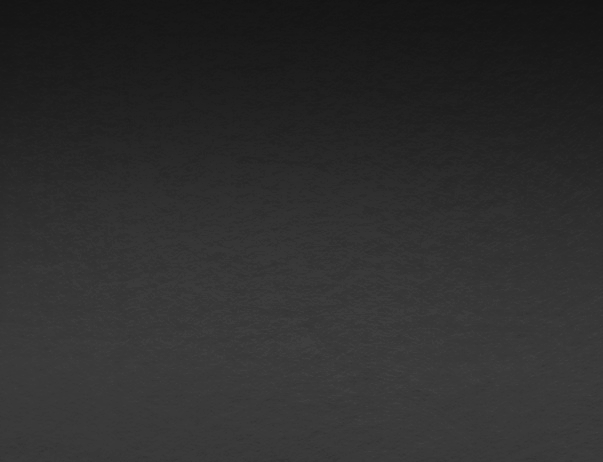
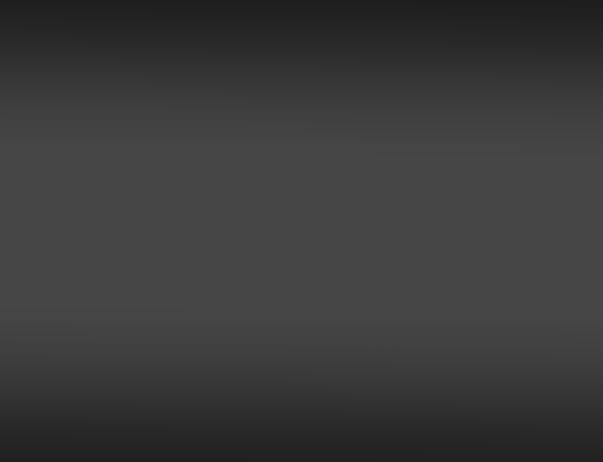
changes

diff --git a/css.css b/css.css
@@ -1,45 +1,45 @@
 
 
+/*//////////////// Shapes/containers ////////////*/
 
-/* Shapes */
+html {
+	scroll-behavior: smooth;
+}
 
 body {
 	background-color: #484747;
 	font-family: 'Chelsea Market', sans-serif;
-	background-image: url(images/background.png);
 	background-repeat: no-repeat;
-	background-size: cover;
+	background-size: 100% 100%;
+	z-index: 2;
 }
 
-
+a {text-decoration:none;}
 
 .bg_square {
 	display: flex;
-	margin: 0px auto;
+	margin: 0 auto;
 	width: 100%;
 	max-width: 1500px;
 	background-color: black;
-	min-height: 900px;
-	align-items: flex-start;
 	}
 
-.side_rect
-{
+.side_rect {
 	display: flex;
 	background-color: black;
-	width: 100%;
-	min-height: 900px;
-	max-width: 450px;
+	min-width: 350px;
+	width: 30%;
 	flex-direction: column;
+
 	
 }
+
 
 .bio_footer_container {
 	background-color: white;
 	display: flex;
 	flex-direction: column;
-	min-height: 900px;
-	max-width: 1200px;;
+	max-width: 100%;
 	justify-content: flex-end;
 	text-align: center;
 }
@@ -69,8 +69,26 @@ body {
 	
 }
 
+.footer_items {
 
-/* text properties */
+	display: flex;
+	flex-direction: row;
+
+}
+
+.hero {
+	display: flex;
+	flex-direction: column;
+	background-image: url(images/hero.png);
+	min-width: 100%;
+	min-height: 500px;
+	background-size: cover;
+	color: white;
+	align-self: flex-start;
+	justify-content: flex-end;
+
+}
+/*///////// text properties //////////*/
 
 
 .footer_text {
@@ -87,30 +105,90 @@ body {
 	
 }
 
+
+.footer_text div {
+
+	display: inline;
+	
+}
+
 .bio_text {
+	text-align: left;
 	font-size: 18px;
-	padding: 0px 130px 30px;
+	padding: 0px 80px 30px;
 	color: #484747;
 }
 
 .bio_text h1 {
+	margin-top: 60px;
 	font-size: 50px;
+	text-align: center;
 }
  
 .bio_text h2 {
+	text-align: center;
 	 padding: 8px;
+	 padding-top: 40px;
  }
 
 
 .sidebar_text {
-	padding: 25px;
+	display: flex;
 	color: white;
-	font-style: italic;
 	font-size: 20px;
-	text-align: center;
+	flex-direction: column;
+	margin: 0 auto;
+	padding-left: 50px;
+	position: fixed;
 }
 
-/* profile image size limit/float */
+.sidebar_image {
+	display: flex;
+	flex-direction: column;
+	margin: 0 auto;
+	padding-left: 25px;
+	position: fixed;
+}
+
+.side_rect h3 {
+	margin: 5px;
+
+}
+
+.side_rect h1 {
+	margin-top: 60px;
+
+}
+
+.side_rect p {
+	margin-top: 500px;
+
+}
+
+#centerMe {
+	text-align: center;
+}
+/* Content Links on page*/
+
+
+.side_rect a:link {
+	color: white;
+}
+
+
+.side_rect a:visited {
+	color: white;
+}
+
+
+.side_rect a:hover {
+	color: gray;
+}
+
+
+/*/////////// images ////////////*/
+
+/* profile image size limit/float (Might not be needed here.) */
 
 .portrait {
 	opacity: 100;
@@ -119,24 +197,88 @@ body {
 	padding-bottom: 5px;
 	width: 80%;
 	height: auto;
-	max-width: 350px;
+	max-width: 300px;
 	
 }
 
+.section_icons {
+	width: 50px;
+	height: 50px;
+	vertical-align: bottom;
+}
 
+.section_icons:hover {
 
+	animation: iconWiggle 2s infinite;
+
+}
+
+@keyframes iconWiggle {
+	50%
+	{
+		transform: rotate(-45deg);
+		transform-origin: 0px 25px;
+	}
+
+	100%
+	{
+		transform: rotate(0deg);
+		transform-origin: 0px 25px;
+	}
+}
 /*Dictates the size and padding of the social media icons.*/
 
 .social_icon {
 	
-	vertical-align: bottom;
-	padding-left: 3px;
-	padding-right: 3px;
+	vertical-align: top;
+	margin-top: 12px;
+	padding-left: 5px;
+	padding-right: 0px;
 	max-height: 30px;
 	max-width: 30px;
 }
 
-/* media query */
+
+/*Images for case study*/
+
+.study_img_container {
+	width: 100%;
+	align-self: center;
+	margin-bottom: 20px;
+}
+
+#study_img {
+	border-color: gray;
+	border-style: solid;
+	border-width: 1px;
+	width: 90%;
+	
+}
+
+#hero_img {
+	
+	width: 100%;
+	
+}
+
+.hero_text {
+	padding-left: 20px;
+	padding-right: 20px;
+	font-size: 20px;
+	margin-bottom: 30px;
+}
+
+.hero_text h1 {
+	font-size: 50px;
+}
+
+
+.hero_text p {
+	opacity: .5;
+}
+
+
+/*//////////// media query ///////////*/
 
 @media only screen and (max-width: 1080px)
 {
@@ -144,12 +286,50 @@ body {
 		display: none;
 	}
 
+	.top_btn {
+		display: none;
+	}
+
 	.social_icon {
-		max-height: 50px;
-		max-width: 50px;
+		min-height: 70px;
+		min-width: 70px;
 		margin-top: 15px;
 	}
 	.footer_text {
-		font-size: 18px;
+		font-size: 40px;
+		padding: 0px 80px 0px;
 	}
+	.footer_text h1 {
+		font-size: 30px;
+		padding: 0px 80px 0px;
+	}
+
+	#study_img {
+		margin: 0 auto;
+		padding: 0px 0px 0px;
+		border-color: transparent;
+	}
+
+	.blockMe {
+		display: block;
+	}
+
+	.footer_items {
+
+		display: flex;
+		flex-direction: column;
+	
+	}
+
+}
+
+
+.gradient {
+	width: 100%;
+	height: 700px;
+	background: linear-gradient(black, transparent);
+	position: fixed;
+	top: 0;
+	left: 0;
+	z-index: -1;
 }

diff --git a/index.html b/index.html
@@ -7,6 +7,7 @@
 
 </head>
 
+<div class="gradient"></div>
 
 
 <body>
@@ -20,8 +21,8 @@
 		<!---Sidebar-->
 
 		<div class="side_rect">
-			<img src="images/rami.png" class="portrait">
-			<p class="sidebar_text">"Sometimes the best way to fix something is to have someone else break
+			<img src="images/rami.png" class="portrait sidebar_image">
+			<p class="sidebar_text">"Sometimes the best way<br> to fix something is to have  <br> someone else break
 				it." <br><br> -Ramie Ghassan Shreim</p>
 		</div>
 
@@ -53,9 +54,9 @@
 					<h2>UX/UI Work</h2>
 
 					<p> During my time at the UX/UI bootcamp, I learned everything I need to know about designing a
-						responsive UI from start to finish. From basic UX priciples, to user research, to prototyping and testing, and prototyping and testing again. I've learned it all and I'm ready
+						responsive UI from start to finish. From basic UX priciples, to user research, to prototyping and testing, to coding responsive websites (like this one!). I've learned it all and I'm ready
 						to start digging in and making great stuff. Of course, I've already got some neat designs under my belt! Key examples being this website,
-						and <a href="https://projects.invisionapp.com/share/3GU4I5IH8D7#/screens/386041006">THIS</a>
+						and <a href="https://ramieshreim.github.io/case_study1/">THIS</a>
 						which is a mobile redesign of the Wildlife Conservation Societies website. </p>
 
 					<h2>As An Artist</h2>
@@ -88,20 +89,28 @@
 
 			<!--footer-->
 
+		
 			<div class="footer_rect">
 
 				<section class="footer_text">
 
 					<h1>Get In Touch </h1>
-					<p>
-						Email: rami.gshreim@gmail.com | Phone: (949)-732-8483 |
 
 
-						<a href="https://www.linkedin.com/in/ramie-shreim-b8b024188/"><img src="images/linkedin.png"
-								class="social_icon"></a>
-						<a href="https://www.artstation.com/greenrami"><img src="images/Artstation.png"
-								class="social_icon"></a>
-					</p>
+					<section class="footer_items">
+
+						<p>
+							Email: rami.gshreim@gmail.com | Phone: (949)-732-8483 |
+						</p>
+
+						<section>
+							<a href="https://www.linkedin.com/in/ramie-shreim-b8b024188/"><img src="images/linkedin.png"
+									class="social_icon"></a>
+							<a href="https://www.artstation.com/greenrami"><img src="images/Artstation.png"
+									class="social_icon"></a>
+						</section>
+
+					</section>
 
 				</section>
 
